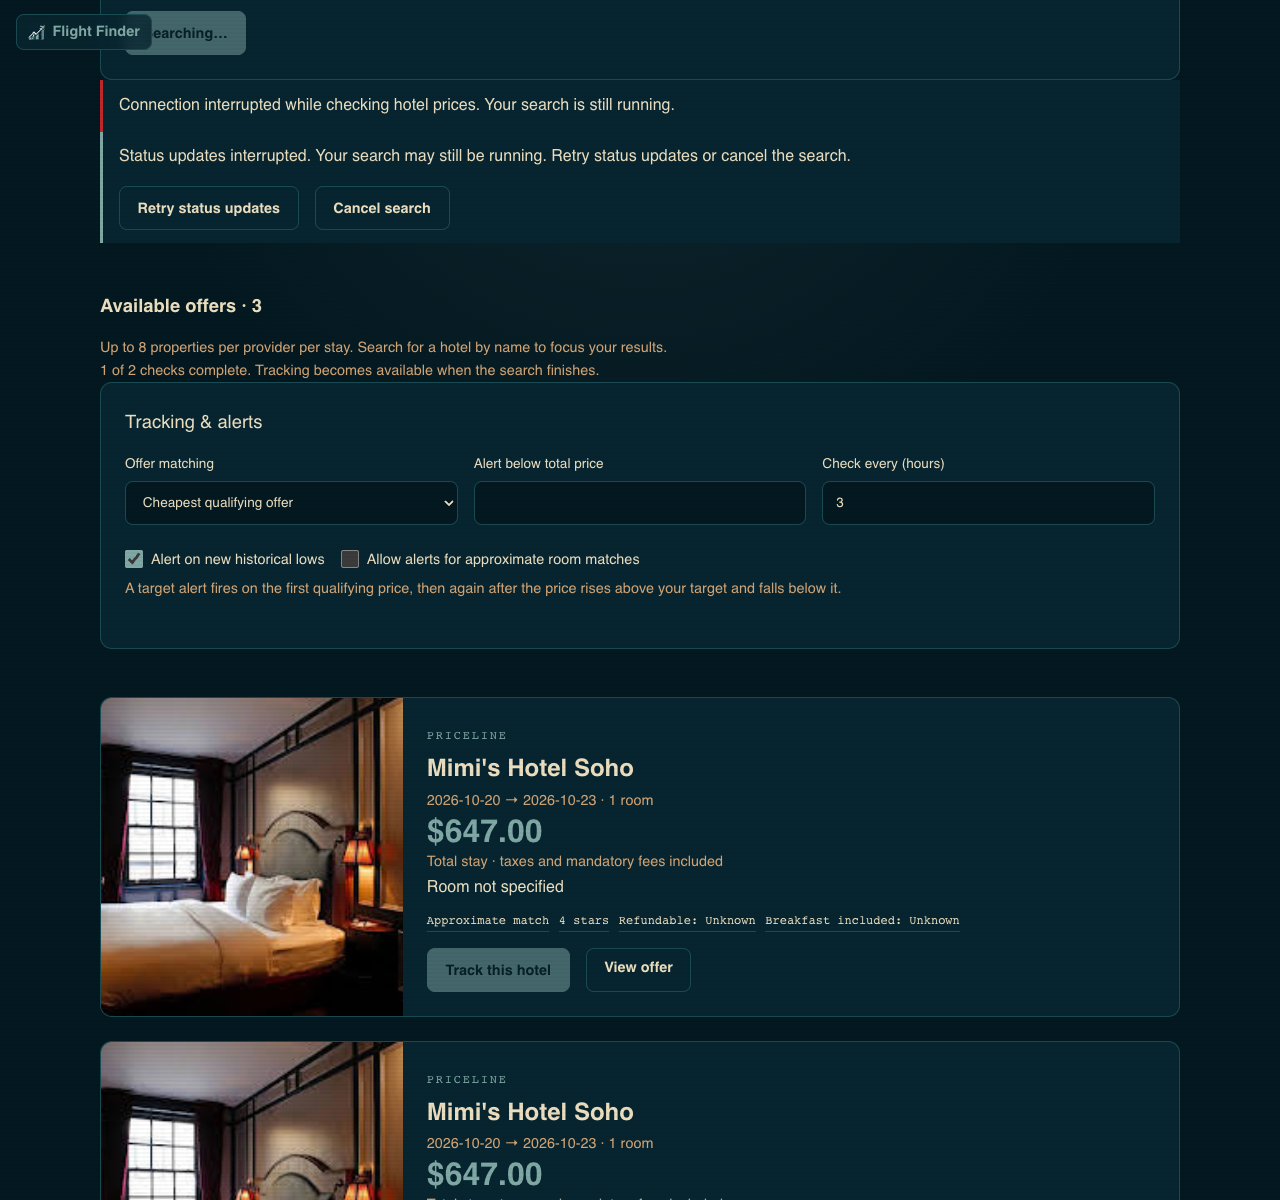
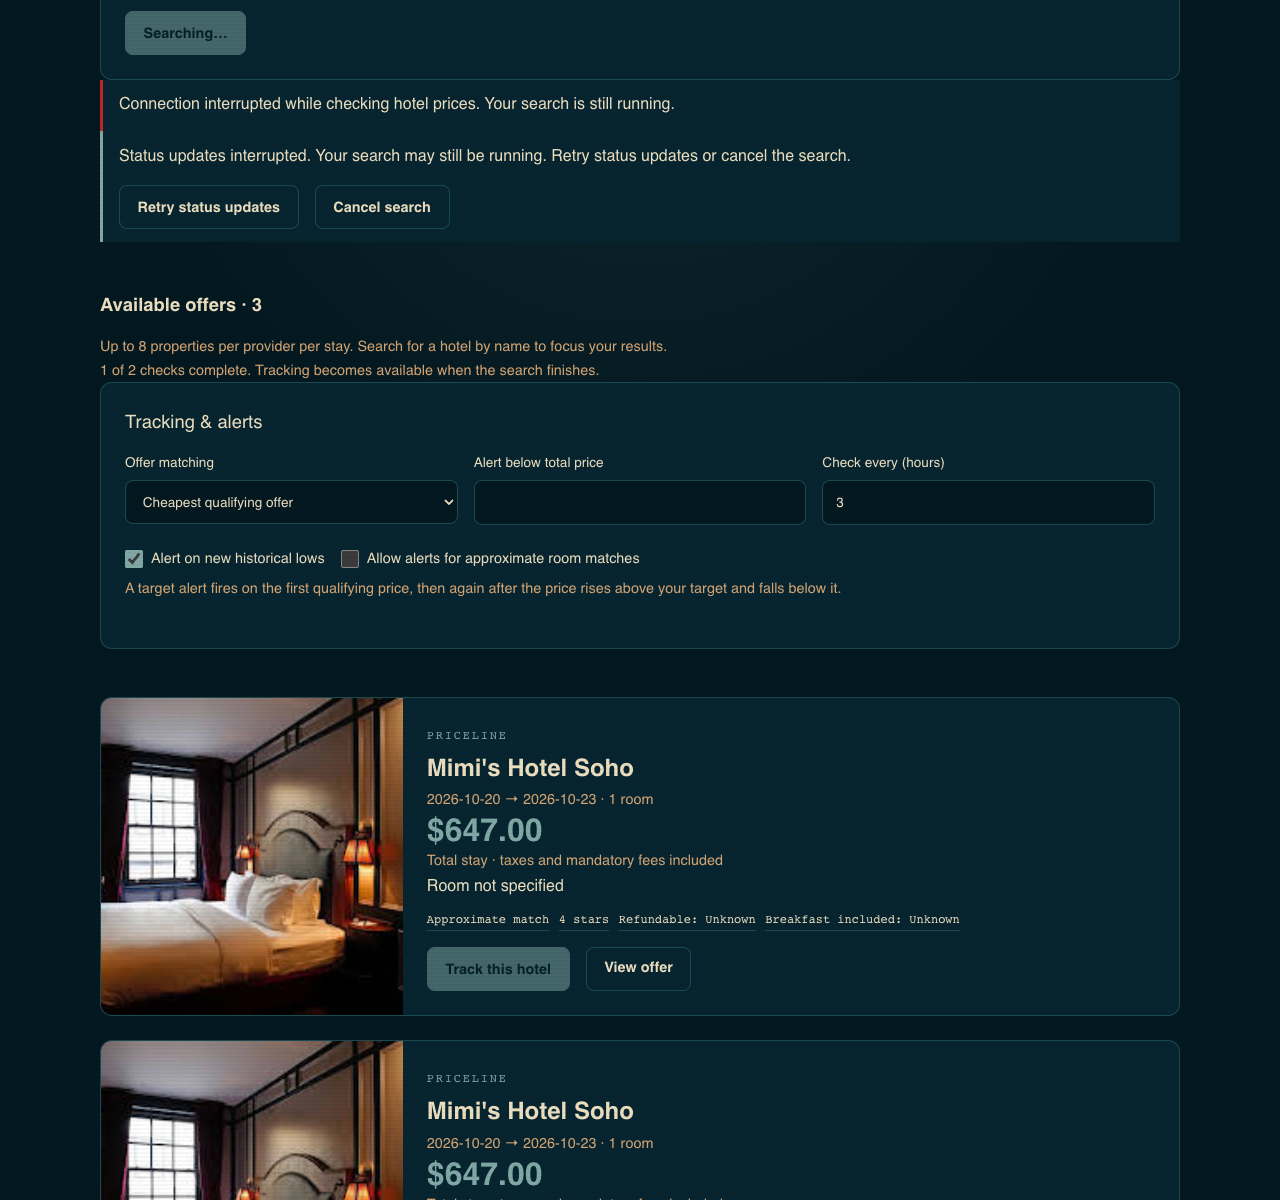
test: automate hotel browser workflows and polish accessibility

diff --git a/apps/web/src/components/hotels/HotelDetail.tsx b/apps/web/src/components/hotels/HotelDetail.tsx
@@ -49,7 +49,7 @@ export function HotelDetail({ id, canReassign = false }: { id: string; canReassi
       if (!active || !point) return null;
       return <div className={styles.tooltip}><strong>{hotelMoney(point.price, tracker.currency, locale)}</strong><p>{point.stay}</p><p>{point.match}</p><span className={styles.muted}>{point.checked}</span></div>;
     }} /><Line dataKey="price" name={tracker.currency} stroke="var(--accent)" strokeWidth={2} isAnimationActive={false} dot /></LineChart></ResponsiveContainer></div>}
-      <div className={styles.tableWrap}><table className={styles.table}><thead><tr>{['checked', 'dates', 'total', 'seller', 'roomOffer', 'refundable', 'breakfast', 'matchMode'].map((key) => <th key={key} scope="col">{t(key)}</th>)}</tr></thead><tbody>{data.snapshots.map((snapshot) => <tr key={snapshot.id}><td>{new Date(snapshot.scrapedAt).toLocaleString(locale)}</td><td>{snapshot.offer.checkIn} → {snapshot.offer.checkOut}</td><td>{hotelMoney(snapshot.offer.totalPrice, snapshot.offer.currency, locale)}</td><td>{safeHotelUrl(snapshot.offer.bookingUrl) ? <a href={safeHotelUrl(snapshot.offer.bookingUrl)} target="_blank" rel="noopener noreferrer">{snapshot.offer.seller}</a> : snapshot.offer.seller}</td><td>{snapshot.offer.roomName ?? t('unknownRoom')}<br /><span className={styles.muted}>{snapshot.offer.rateName ?? t('unknown')}</span></td><td>{t(snapshot.offer.refundable === null ? 'unknown' : snapshot.offer.refundable ? 'yes' : 'no')}</td><td>{t(snapshot.offer.breakfast === null ? 'unknown' : snapshot.offer.breakfast ? 'yes' : 'no')}</td><td>{t(snapshot.offer.match)}{!snapshot.eligible && ` · ${t('ineligible')}`}</td></tr>)}</tbody></table></div>
+      <p id="hotel-history-scroll" className={styles.scrollHint}>{t('historyScroll')}</p><div className={styles.tableWrap} role="region" aria-label={t('historyTable')} aria-describedby="hotel-history-scroll" tabIndex={0}><table className={styles.table}><thead><tr>{['checked', 'dates', 'total', 'seller', 'roomOffer', 'refundable', 'breakfast', 'matchMode'].map((key) => <th key={key} scope="col">{t(key)}</th>)}</tr></thead><tbody>{data.snapshots.map((snapshot) => <tr key={snapshot.id}><td>{new Date(snapshot.scrapedAt).toLocaleString(locale)}</td><td>{snapshot.offer.checkIn} → {snapshot.offer.checkOut}</td><td>{hotelMoney(snapshot.offer.totalPrice, snapshot.offer.currency, locale)}</td><td>{safeHotelUrl(snapshot.offer.bookingUrl) ? <a href={safeHotelUrl(snapshot.offer.bookingUrl)} target="_blank" rel="noopener noreferrer">{snapshot.offer.seller}</a> : snapshot.offer.seller}</td><td>{snapshot.offer.roomName ?? t('unknownRoom')}<br /><span className={styles.muted}>{snapshot.offer.rateName ?? t('unknown')}</span></td><td>{t(snapshot.offer.refundable === null ? 'unknown' : snapshot.offer.refundable ? 'yes' : 'no')}</td><td>{t(snapshot.offer.breakfast === null ? 'unknown' : snapshot.offer.breakfast ? 'yes' : 'no')}</td><td>{t(snapshot.offer.match)}{!snapshot.eligible && ` · ${t('ineligible')}`}</td></tr>)}</tbody></table></div>
     </section>
     <section className={styles.section}><form className={styles.form} onSubmit={(e) => { e.preventDefault(); const { targetPrice, notifyLows, allowApproximateAlerts, scrapeInterval } = options; void mutate('PATCH', { targetPrice, notifyLows, allowApproximateAlerts, scrapeInterval }); }}><HotelOptions value={options} onChange={setOptions} edit /><button className={styles.button} disabled={busy}>{t('save')}</button>{saved && <p role="status">{t('savedChanges')}</p>}</form></section>
     {canReassign && <section className={styles.section}><form className={styles.form} onSubmit={(e) => { e.preventDefault(); void mutate('PATCH', { userId: owner }); }}><label className={styles.field}>{t('owner')}<select required value={owner || tracker.userId || ''} onChange={(e) => setOwner(e.target.value)}><option value="" disabled>{t('chooseOwner')}</option>{users.map((user) => <option key={user.id} value={user.id}>{user.displayName || user.username}</option>)}</select></label><div className={styles.actions}><button className={styles.secondary} disabled={busy || !owner || owner === tracker.userId}>{t('reassign')}</button></div></form></section>}

diff --git a/apps/web/src/components/hotels/Hotels.test.tsx b/apps/web/src/components/hotels/Hotels.test.tsx
@@ -117,6 +117,15 @@ describe('Hotel offers and saved trackers', () => {
     const current = detail(); current.snapshots = [{ id: 'p1', runId: 'r1', scrapedAt: '2027-09-02T12:00:00Z', eligible: false, offer: { ...offer, match: 'approximate', checkIn: '2027-10-16', checkOut: '2027-10-19' } }]; vi.stubGlobal('fetch', vi.fn().mockResolvedValue(response(current)));
     render(<HotelDetail id="tracker1" />); const table = await screen.findByRole('table'); await waitFor(() => expect(within(table).getByText(/2027-10-16/)).toBeInTheDocument()); expect(within(table).getByText(/Not eligible for alerts/)).toBeInTheDocument(); expect(within(table).getByText('Double room')).toBeInTheDocument(); expect(within(table).getByText('Flexible')).toBeInTheDocument(); expect(within(table).getByText('Unknown')).toBeInTheDocument();
   });
+  it('makes detailed history keyboard-focusable and explains sideways scrolling', async () => {
+    vi.stubGlobal('fetch', vi.fn().mockResolvedValue(response(detail())));
+    render(<HotelDetail id="tracker1" />);
+    const region = await screen.findByRole('region', { name: 'Detailed price history' });
+    expect(within(region).getByRole('table')).toBeInTheDocument();
+    expect(region).toHaveAccessibleDescription(/Scroll sideways.*arrow keys/);
+    region.focus();
+    expect(region).toHaveFocus();
+  });
   it('requires confirmation before deleting a hotel and returns to search after deletion', async () => {
     const confirm = vi.spyOn(window, 'confirm').mockReturnValue(false);
     const fetcher = vi.fn().mockImplementation(async (url: string, init?: RequestInit) => init?.method === 'DELETE' ? response({ deleted: true }) : response(detail())); vi.stubGlobal('fetch', fetcher);

diff --git a/apps/web/src/components/HomeBrand/HomeBrand.tsx b/apps/web/src/components/HomeBrand/HomeBrand.tsx
@@ -16,6 +16,7 @@ import styles from './HomeBrand.module.css';
 export function HomeBrand() {
   const t = useTranslations('HomeBrand');
   const pathname = usePathname();
+  const hotelPage = pathname === '/hotels' || pathname?.startsWith('/hotels/');
   if (
     pathname?.startsWith('/admin') ||
     pathname?.startsWith('/setup') ||
@@ -25,7 +26,7 @@ export function HomeBrand() {
   }
 
   return (
-    <Link href="/" className={styles.root} aria-label={t('home')}>
+    <Link href="/" className={hotelPage ? `${styles.root} ${styles.hotel}` : styles.root} aria-label={t('home')}>
       <span className={styles.mark} aria-hidden="true" />
       <span className={styles.word}>Flight Finder</span>
     </Link>

diff --git a/apps/web/src/components/hotels/Hotels.module.css b/apps/web/src/components/hotels/Hotels.module.css
@@ -44,6 +44,8 @@
 .row strong { display: block; font-family: var(--font-display); }
 .rowPrice { font-family: var(--font-mono); white-space: nowrap; }
 .tableWrap { overflow-x: auto; }
+.tableWrap:focus-visible { outline: 2px solid var(--accent); outline-offset: 3px; }
+.scrollHint { color: var(--text-secondary); font: .8rem var(--font-mono); margin: .75rem 0; }
 .table { width: 100%; border-collapse: collapse; font-size: .85rem; }
 .table th, .table td { text-align: left; padding: .8rem; border-bottom: 1px solid var(--border); white-space: nowrap; }
 .chart { width: 100%; height: 300px; margin: 1.5rem 0; }

diff --git a/apps/web/src/components/HomeBrand/HomeBrand.test.tsx b/apps/web/src/components/HomeBrand/HomeBrand.test.tsx
@@ -14,8 +14,8 @@ vi.mock('next/link', () => ({
 afterEach(cleanup);
 
 describe('HomeBrand', () => {
-  it('renders a home link on ordinary pages', () => {
-    vi.mocked(usePathname).mockReturnValue('/account');
+  it.each(['/account', '/', '/hotels', '/hotels/saved-stay'])('provides a home link on %s', (path) => {
+    vi.mocked(usePathname).mockReturnValue(path);
     render(<HomeBrand />);
     expect(screen.getByRole('link', { name: /Flight Finder home/i })).toHaveAttribute('href', '/');
   });

diff --git a/apps/web/src/components/HomeBrand/HomeBrand.module.css b/apps/web/src/components/HomeBrand/HomeBrand.module.css
@@ -23,6 +23,13 @@
   border-color: var(--accent);
 }
 
+.hotel {
+  position: relative;
+  top: auto;
+  left: auto;
+  margin: 1rem 1rem 0;
+}
+
 /* The real logo mark (plane + price trail + mountain) as a rounded tile. Uses
    the same icon.svg the favicon does, so the brand and the tab icon match. */
 .mark {
